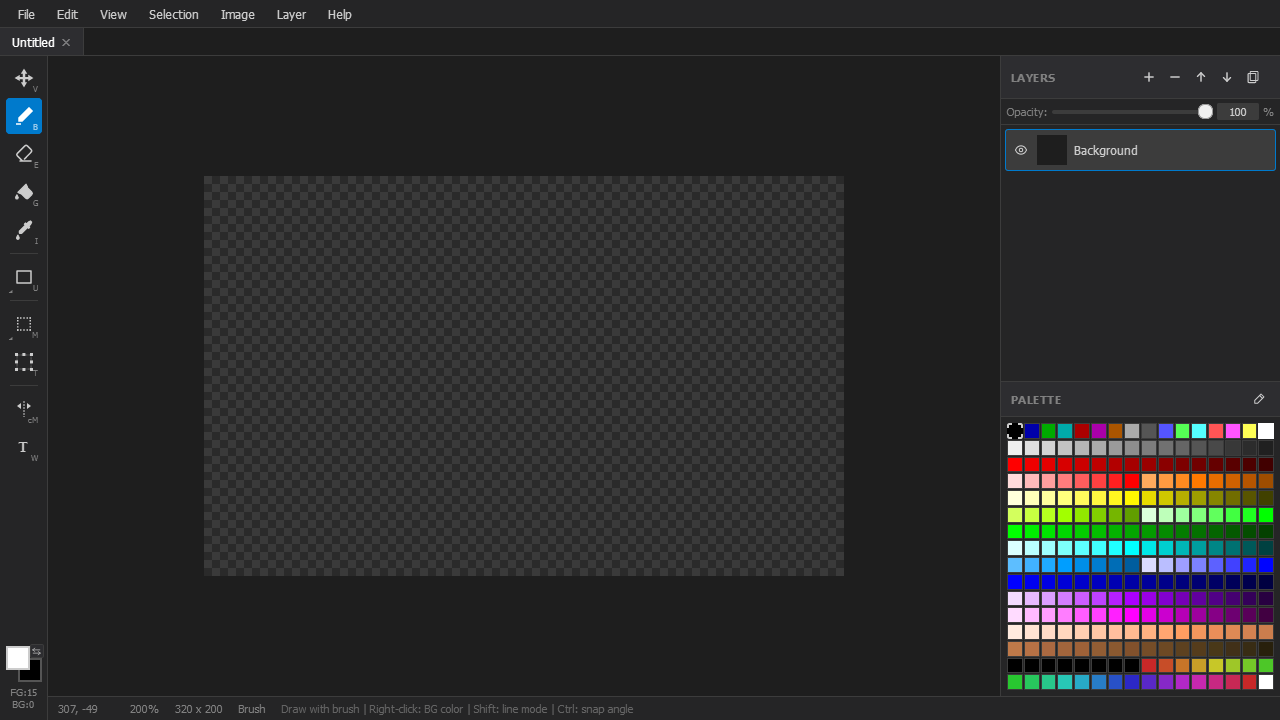
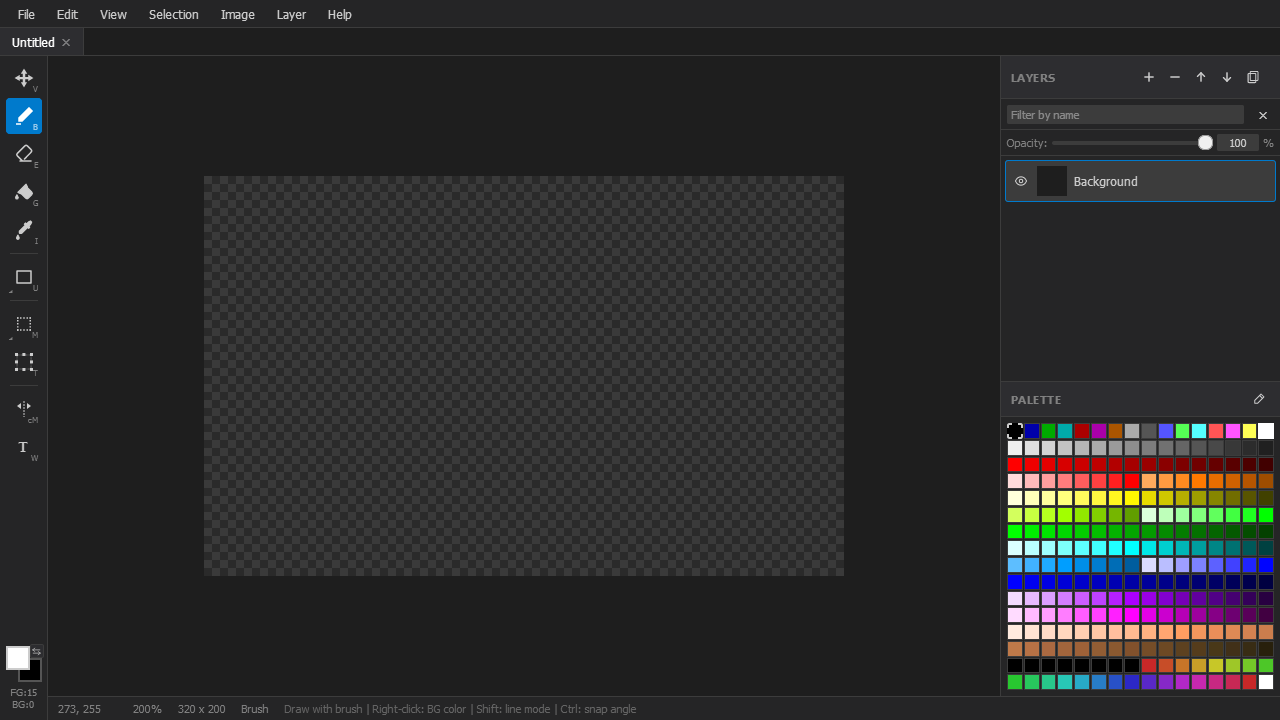
Retake the 1.8.0 screenshot; park the screenshot frame
The shot in the release commit predated the layer filter, so the README
showed a 1.8.0 feature list next to a Layers panel without the filter box
in it. Retaken at 1280x720 with the filter visible.

The max-width/max-height pair that pins the UI to 1280x720 stays in
css/main.css, commented out: it is what makes successive screenshots come
out the same size regardless of the browser window, and the next one is
then one edit away rather than a rediscovery.

Changed region(s): [[0.0312, 0.9778, 0.5, 1.0], [0.7812, 0.1528, 0.9062, 0.275], [0.9375, 0.1528, 1.0, 0.2139]]

diff --git a/css/main.css b/css/main.css
@@ -57,6 +57,13 @@ html, body {
         "toolbar statusbar statusbar";
     width: 100%;
     height: 100%;
+
+    /* Screenshot frame: uncomment to pin the whole UI to exactly 1280x720 on a
+       larger display, so README screenshots come out at a consistent size
+       whatever the browser window happens to be. The app anchors top-left, so
+       the shot is a straight crop from the corner. Off for normal use. */
+    /* max-width: 1280px; */
+    /* max-height: 720px; */
 }
 
 /* Menu bar */
